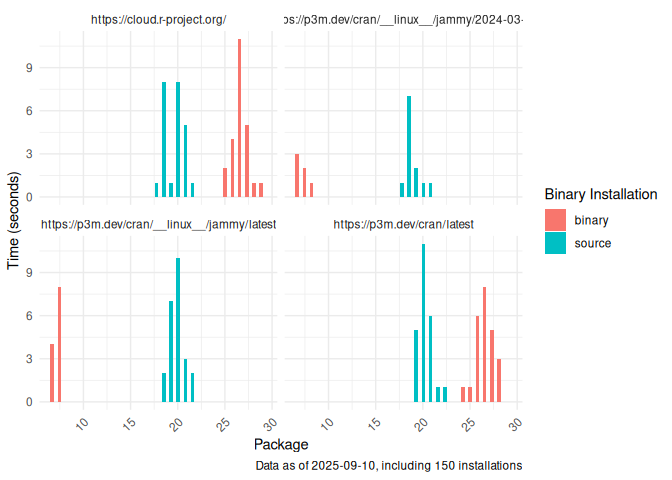
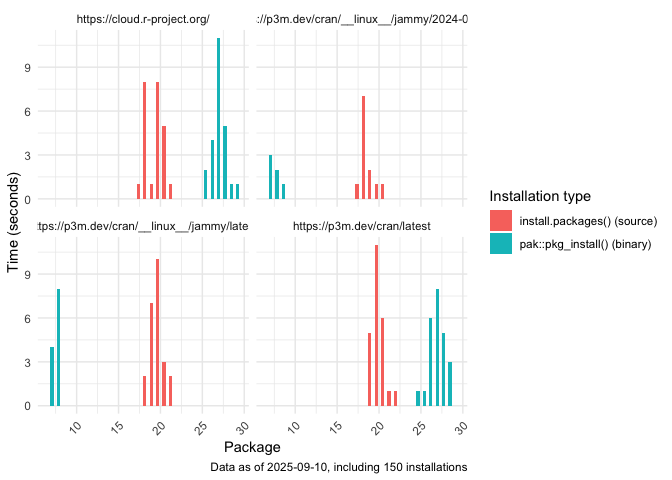
Checking binary vs source in wrong way; also using the wrong CRAN repo for ubuntu

diff --git a/README.md b/README.md
@@ -13,6 +13,26 @@ and saves the output as csv files under [data](./data).
 
 ## Preliminary analysis
 
+The following table shows the distribution of the installations so far:
+
+|                                                 | binary |
+|:------------------------------------------------|-------:|
+| https://cloud.r-project.org/                    |     24 |
+| https://p3m.dev/cran/**linux**/jammy/2024-03-31 |      6 |
+| https://p3m.dev/cran/**linux**/jammy/latest     |     12 |
+| https://p3m.dev/cran/latest                     |     24 |
+
+Using pak::pkg_install()
+
+|                                                 | source |
+|:------------------------------------------------|-------:|
+| https://cloud.r-project.org/                    |     24 |
+| https://p3m.dev/cran/**linux**/jammy/2024-03-31 |     12 |
+| https://p3m.dev/cran/**linux**/jammy/latest     |     24 |
+| https://p3m.dev/cran/latest                     |     24 |
+
+Using install.packages()
+
 The following figure shows the installation times (in seconds) for the
 `data.table` package using different methods and CRAN versions. Overall,
 `pak` seems to be faster when `option("repos")["CRAN"]` points to the
